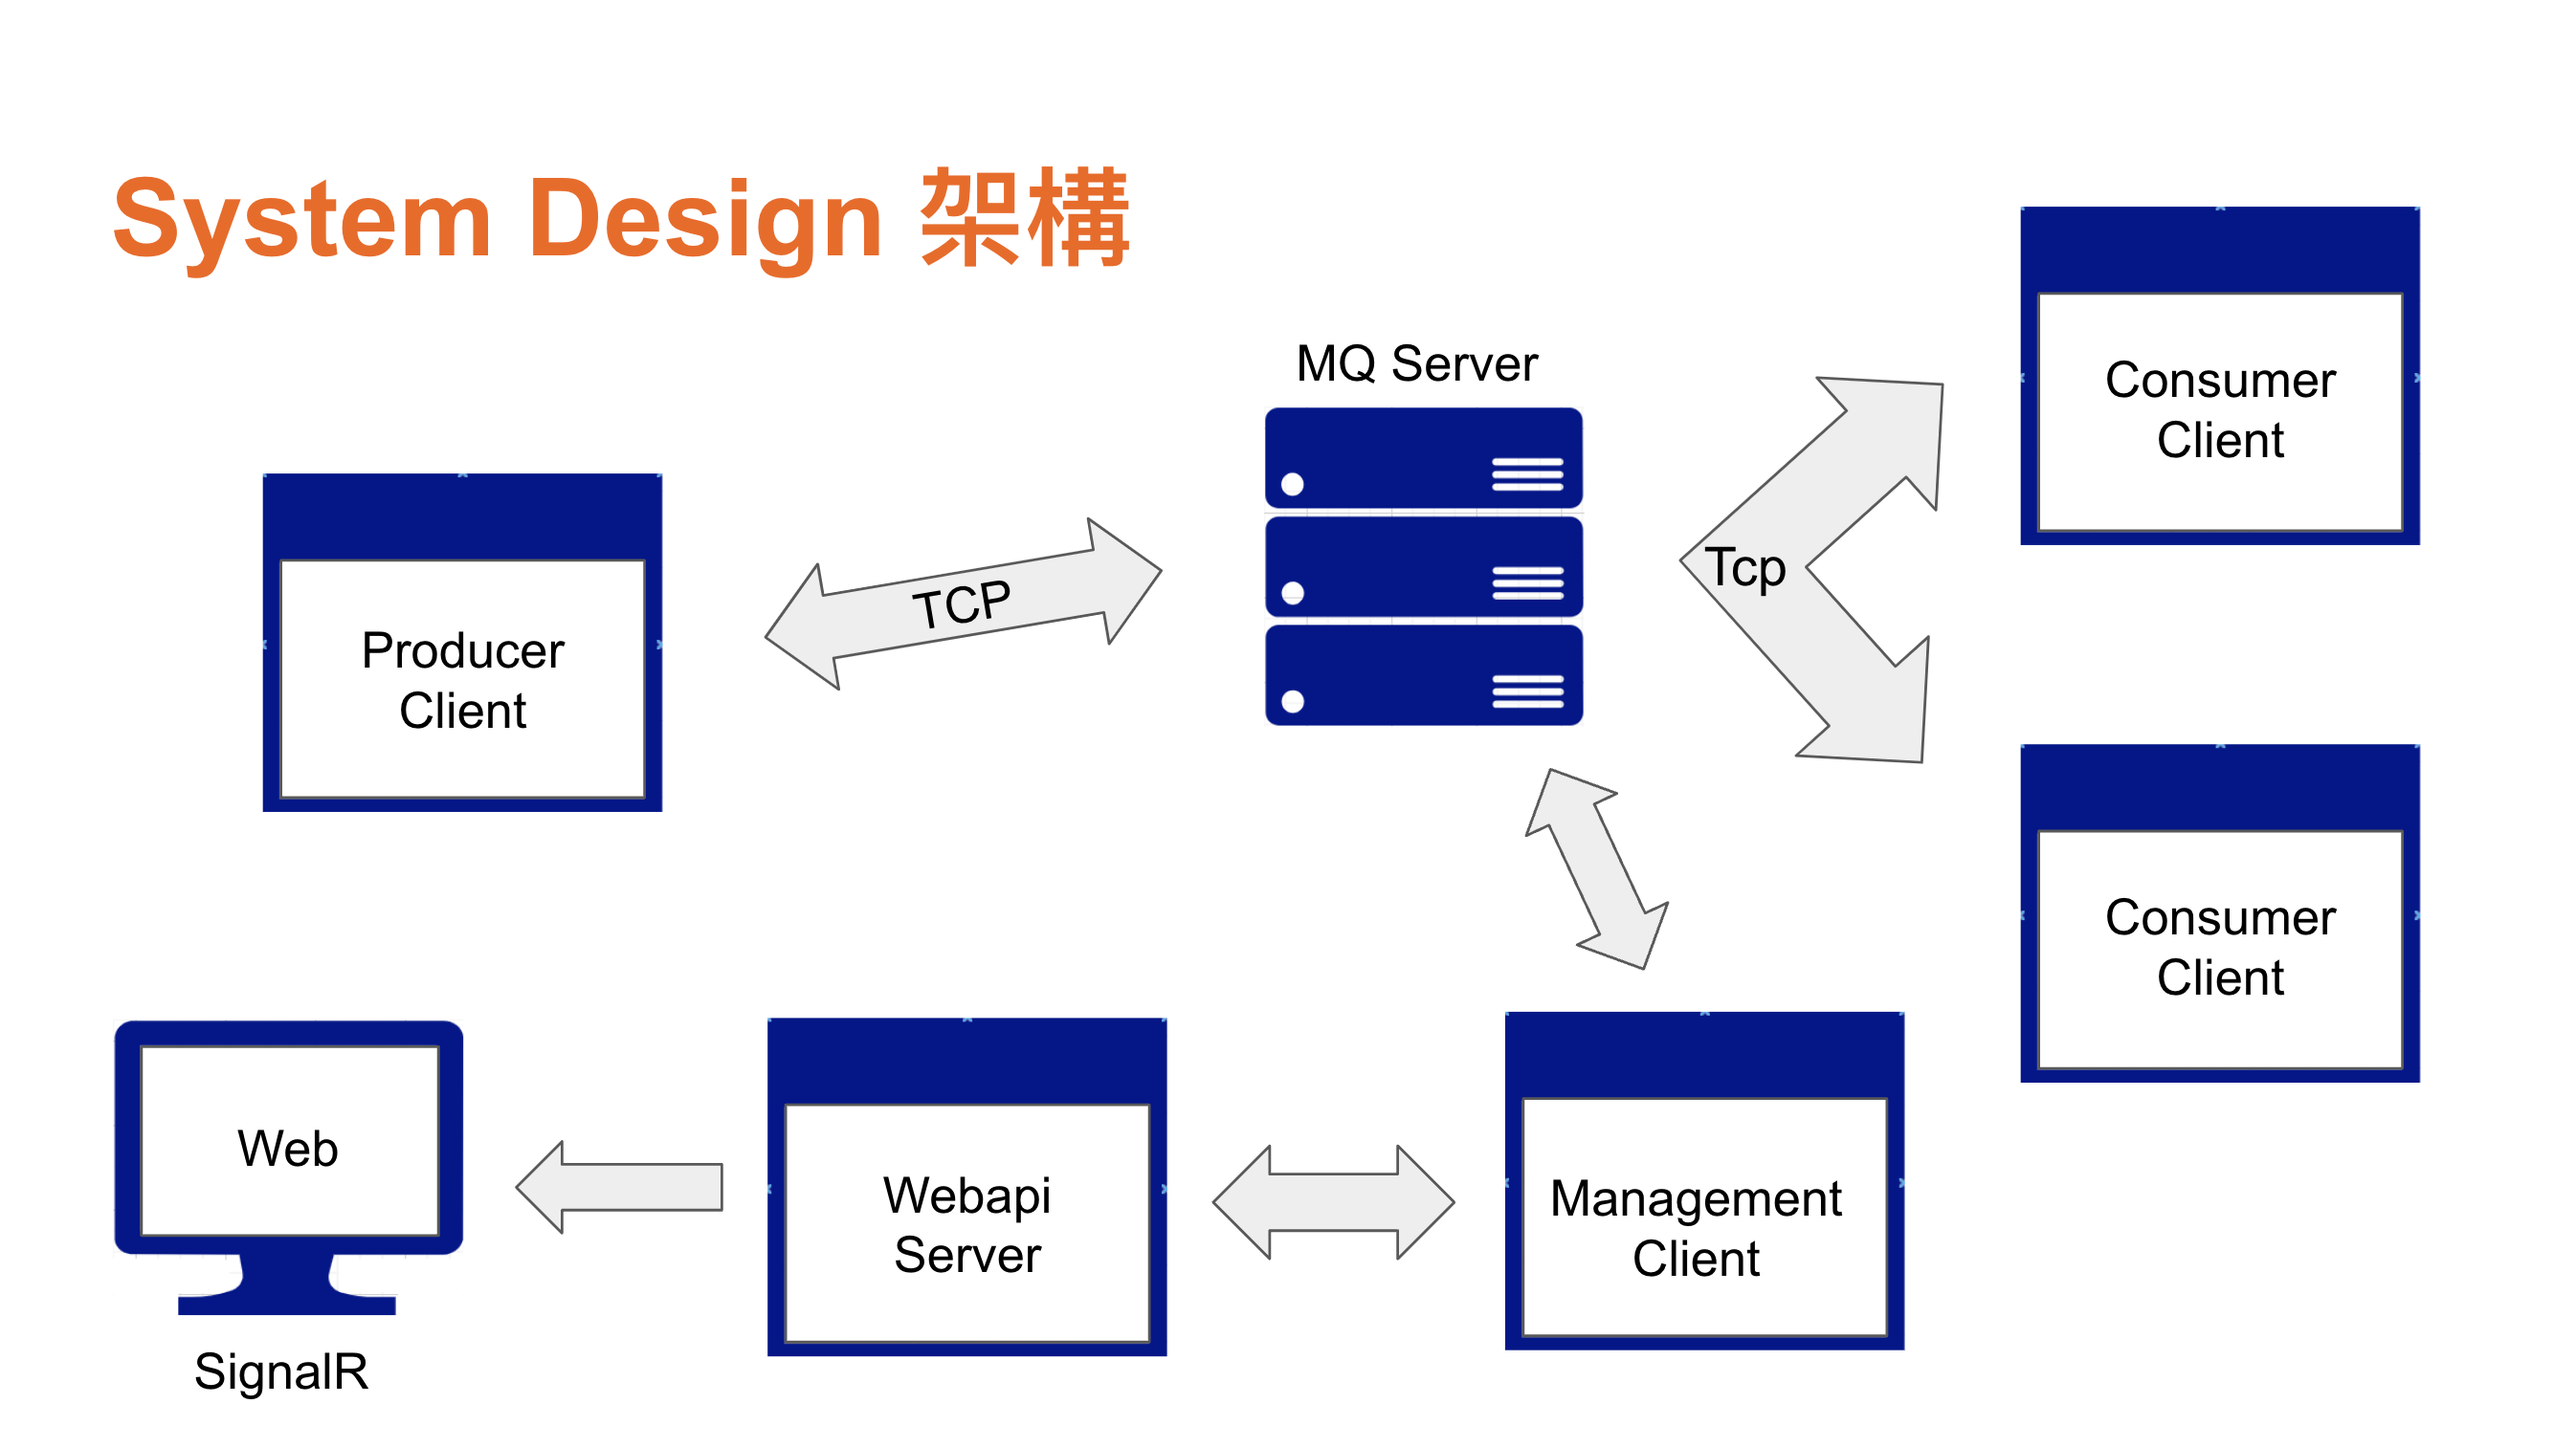
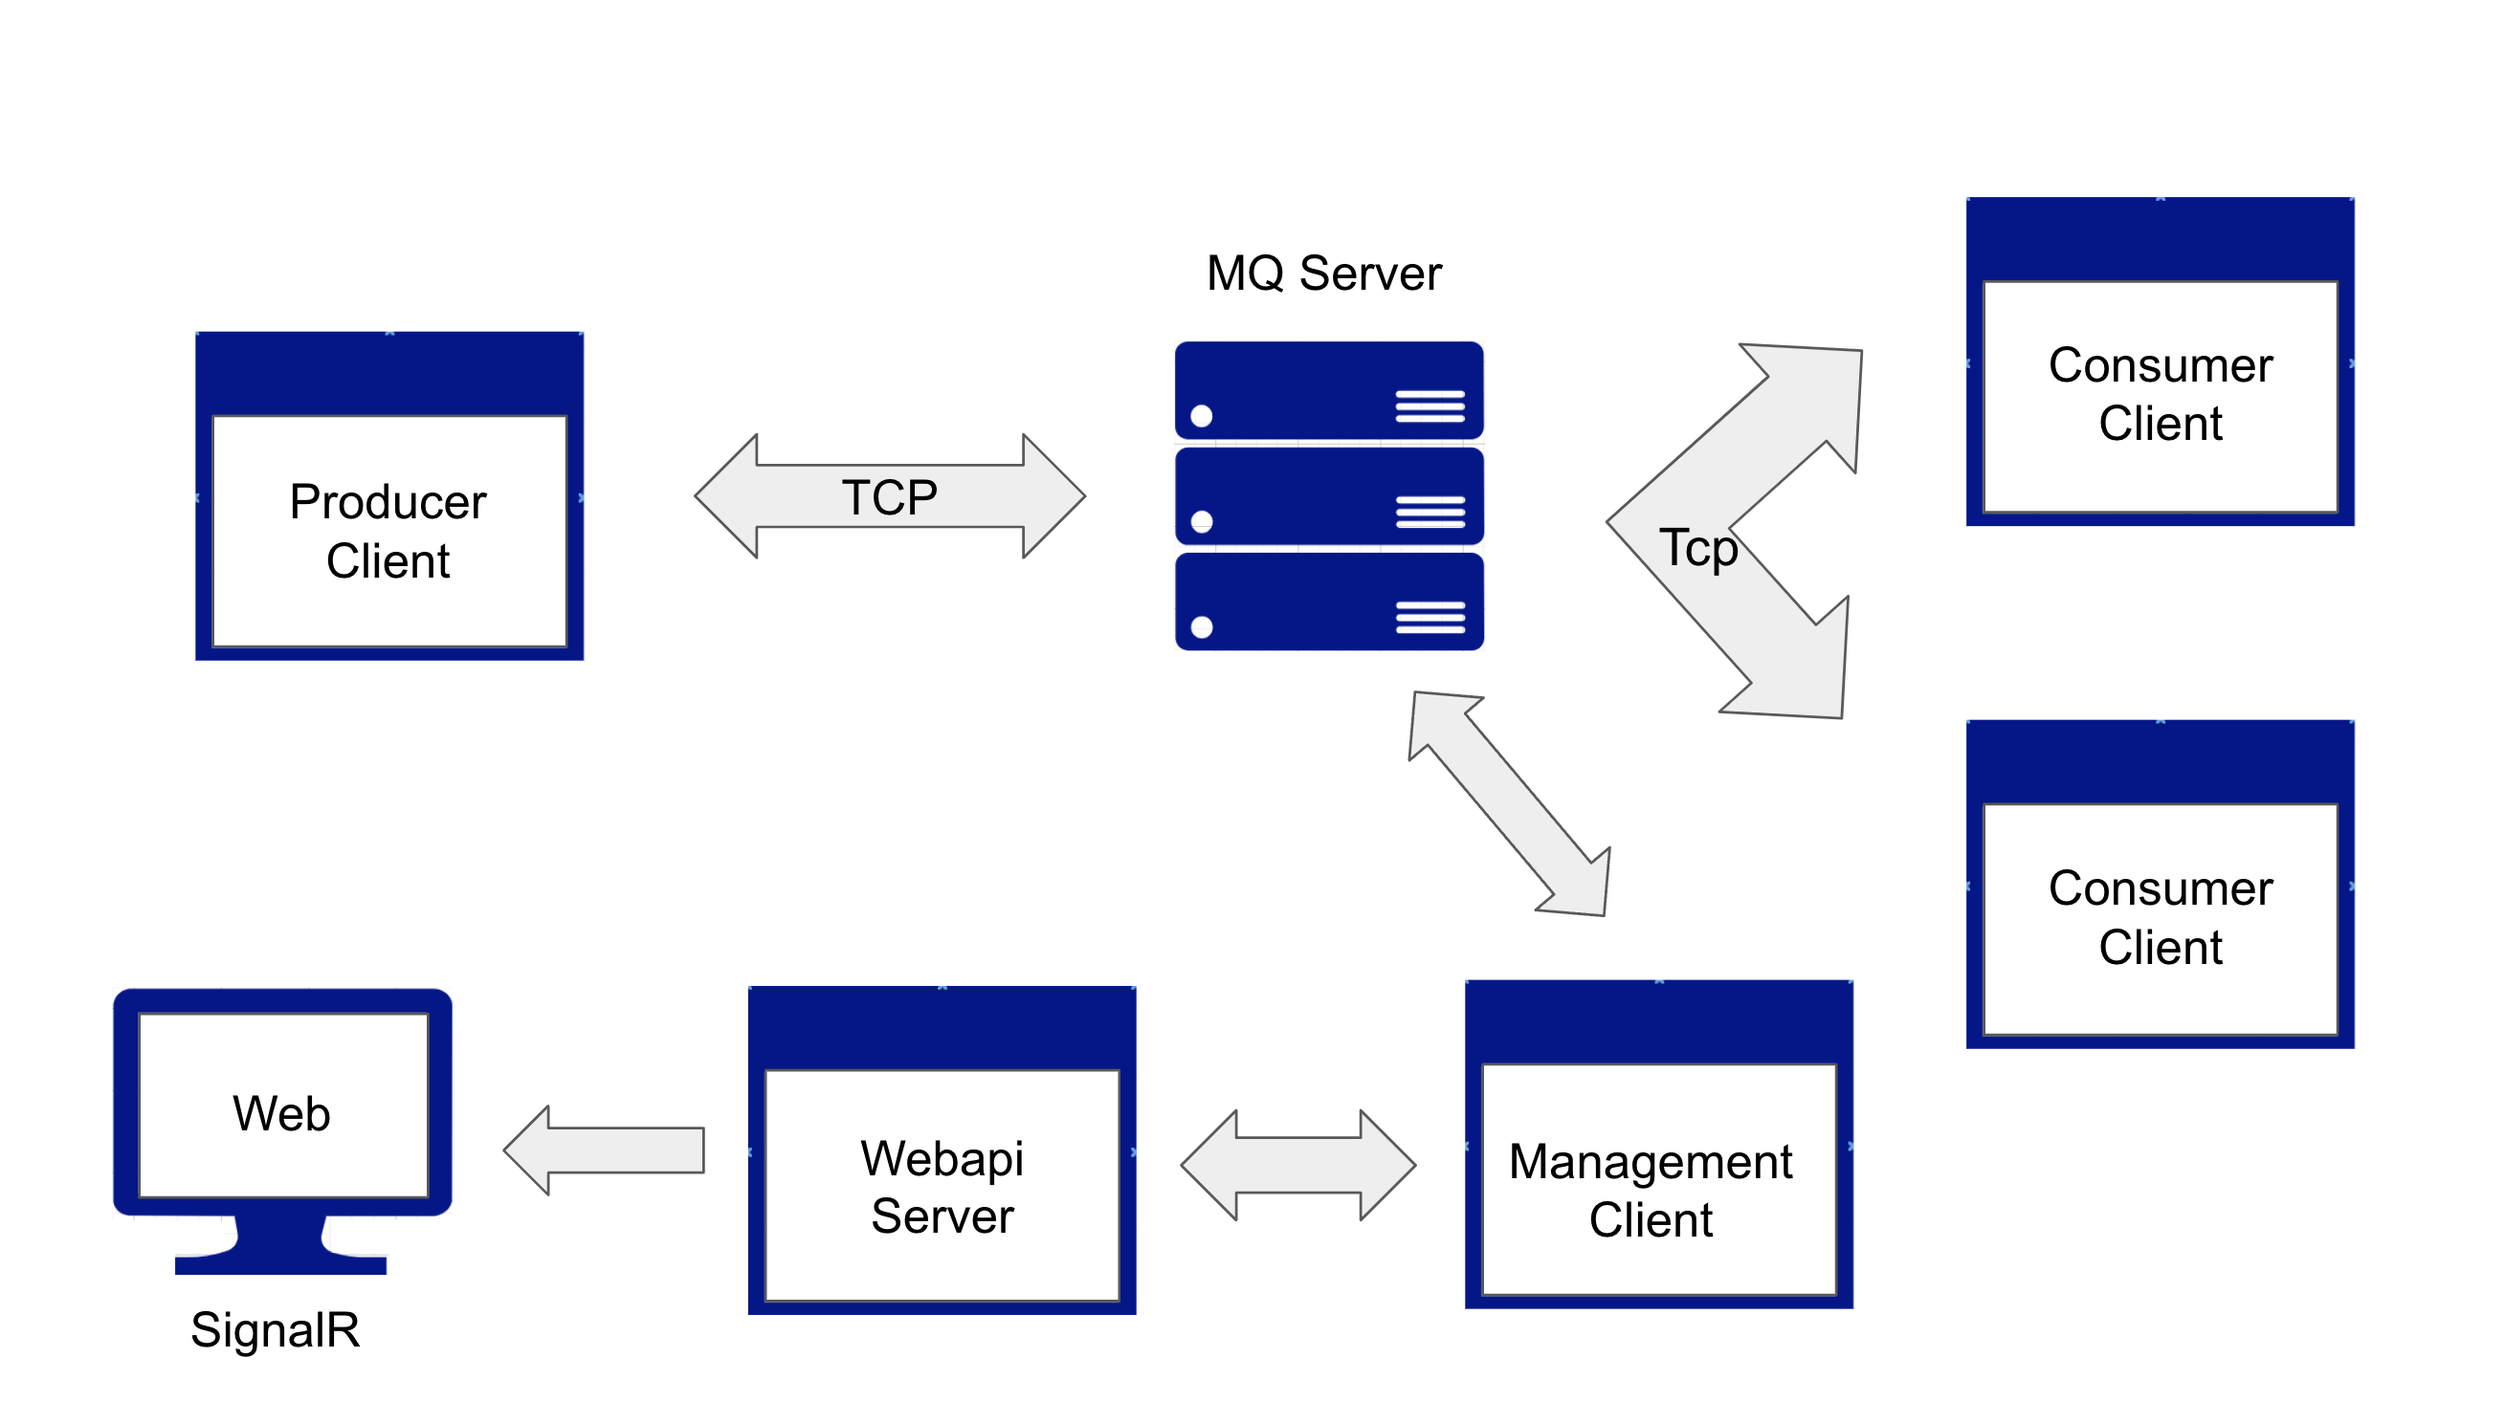
update readme

diff --git a/README.md b/README.md
@@ -2,6 +2,10 @@
 
 <img src="/images/logo.png" alt="logo" width="400" height="300">
 
+## System Design
+
+<img src="/images/systemDesign.png" alt="systemDesign" width="700" height="400">
+
 ## Sprint 1
 
 - Implemented the basic message queue model for both MQ server and client.
@@ -16,8 +20,6 @@
 - Designed a management interface using SignalR, allowing administrators to view the queue status and monitor performance.
 
 <img src="/images/PubSub.png" alt="PubSub" width="700" height="400">
-
-<img src="/images/systemDesign.png" alt="systemDesign" width="700" height="400">
 
 ## Sprint 3
 
